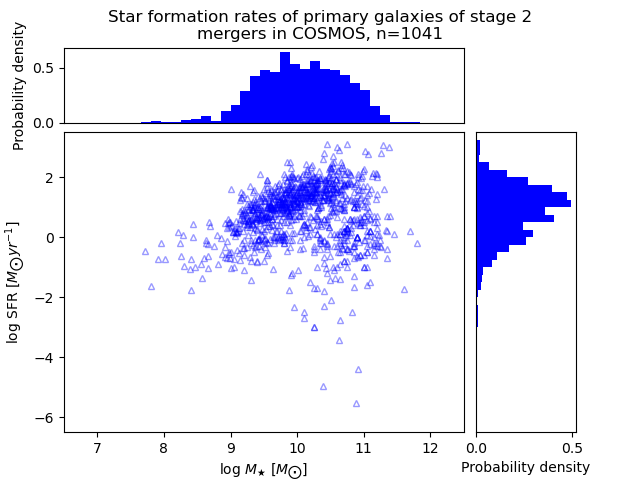
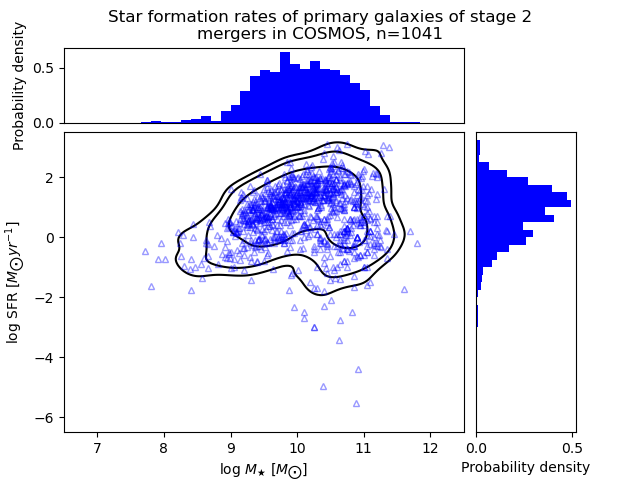
Added contour lines

Changed region(s): [[0.2812, 0.2812, 0.6562, 0.625], [0.25, 0.5, 0.2812, 0.5625]]

diff --git a/plots/plotting_code/main_plots/sfr_mass.py b/plots/plotting_code/main_plots/sfr_mass.py
@@ -126,7 +126,8 @@ def generate_separate(data):
         ax.set_ylim(-6.5, 3.5)
         ax.set_xlim(6.5, 12.5)
 
-        # ax.contour(j[0], j[1])
+        # Countour plot
+        sns.kdeplot(x=j[0], y=j[1], ax=ax, color='black', levels=[1-0.95, 1-0.90, 1-0.68])
         
         # Histogram
         binwidth = 0.25
